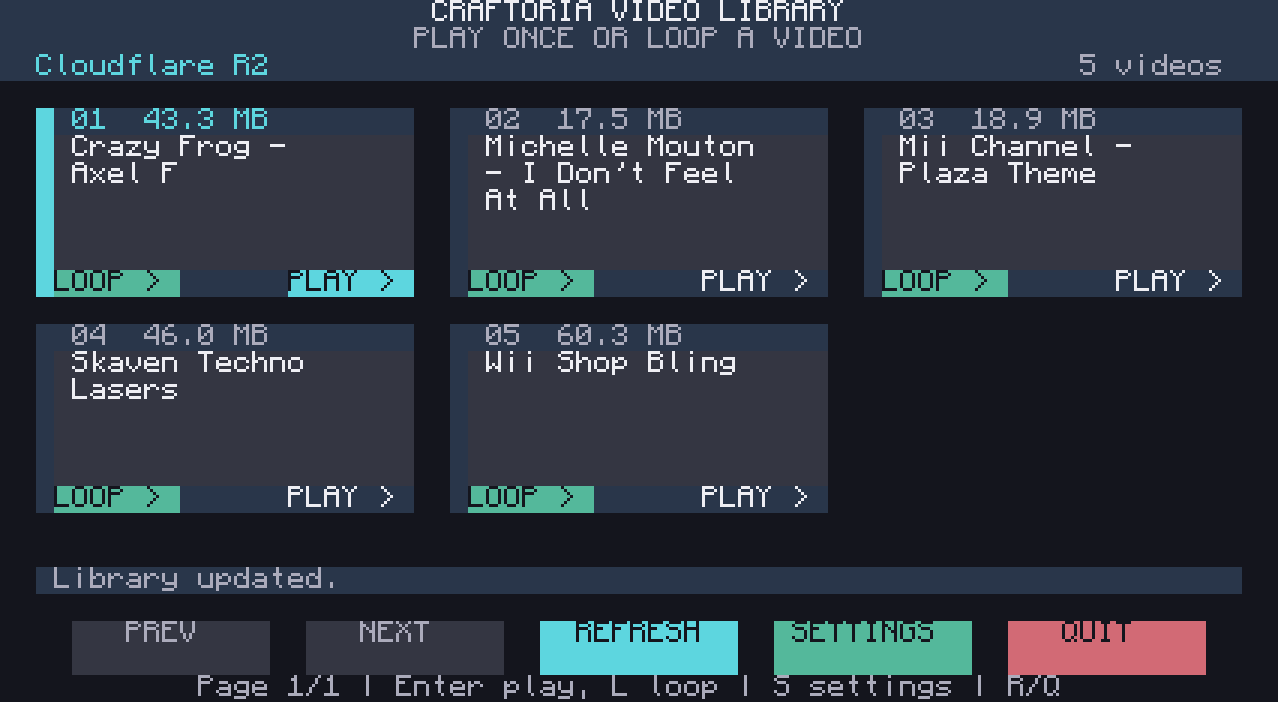
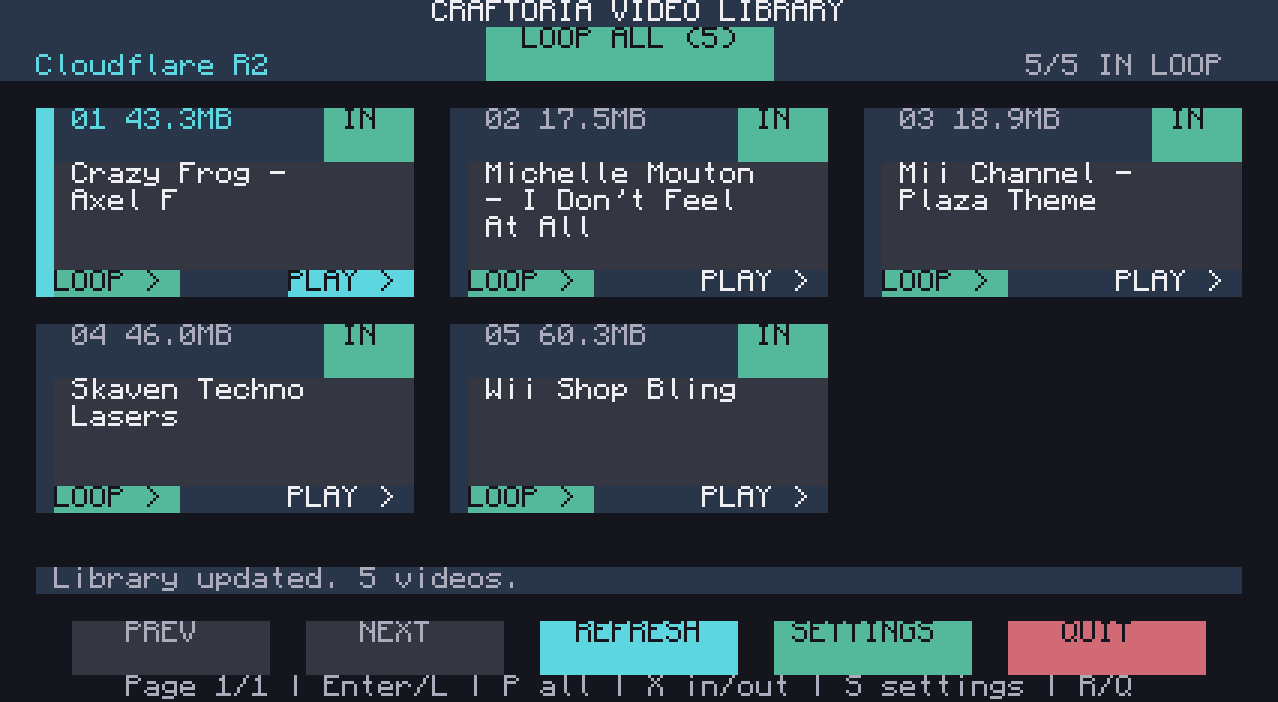
feat: loop library videos with saved exclusions

diff --git a/README.md b/README.md
@@ -7,25 +7,33 @@ A CC:Tweaked video player for a **7-wide x 4-high Advanced Monitor wall**, with 
 Stop the existing player with Ctrl+T. Download the updated script to a fresh filename and launch it directly:
 
 ```text
-wget https://raw.githubusercontent.com/Mavial/craftoria-video-player/main/video.lua video-settings.lua
-video-settings.lua
+wget https://raw.githubusercontent.com/Mavial/craftoria-video-player/main/video.lua video-library.lua
+video-library.lua
 ```
 
-Choose an unused filename if `video-settings.lua` already exists. The player discovers directly attached and wired-network Advanced Monitors and chooses the largest wall that fits the current 143x52-character recordings. It uses text scale **1.0 for the menu** when the display has enough room, and switches to **0.5 for playback** to preserve the recording's full resolution. Smaller screens use a compact menu at 0.5, with a clear size error if a recording does not fit. With no Advanced Monitor connected, the menu stays on the computer for keyboard use. The R2 catalogue URL is already configured.
+Choose an unused filename if `video-library.lua` already exists. The player discovers directly attached and wired-network Advanced Monitors and chooses the largest wall that fits the current 143x52-character recordings. It uses text scale **1.0 for the menu** when the display has enough room, and switches to **0.5 for playback** to preserve the recording's full resolution. Smaller screens use a compact menu at 0.5, with a clear size error if a recording does not fit. With no Advanced Monitor connected, the menu stays on the computer for keyboard use. The R2 catalogue URL is already configured.
 
-Use **Settings > Display** to choose a particular wall, or keep automatic selection. The older `set video.monitor monitor_5` setting still works; `set video.monitor nil` enables automatic selection. A disconnected saved selection falls back to automatic discovery and shows a warning. The old `monitor MONITOR_NAME video-settings.lua` command still works and initially keeps its explicitly chosen monitor; changing the display in Settings can switch it during that session. Quit, errors and Ctrl+T restore the previous terminal. Touches on other monitors and mouse clicks in the computer GUI do not control an automatically selected wall.
+Use **Settings > Display** to choose a particular wall, or keep automatic selection. The older `set video.monitor monitor_5` setting still works; `set video.monitor nil` enables automatic selection. A disconnected saved selection falls back to automatic discovery and shows a warning. The old `monitor MONITOR_NAME video-library.lua` command still works and initially keeps its explicitly chosen monitor; changing the display in Settings can switch it during that session. Quit, errors and Ctrl+T restore the previous terminal. Touches on other monitors and mouse clicks in the computer GUI do not control an automatically selected wall.
 
 To run at computer boot, copy the player to an unused startup filename:
 
 ```text
-copy video-settings.lua startup.lua
+copy video-library.lua startup.lua
 ```
 
-If this computer already has a startup script, use `shell.run("video-settings.lua")` in that script instead. If you previously copied the whole old player into `startup.lua`, replace that player copy with the updated version. The **When player starts** preference controls what the player does after launch; a startup script is still needed to launch it automatically at computer boot.
+If this computer already has a startup script, use `shell.run("video-library.lua")` in that script instead. If you previously copied the whole old player into `startup.lua`, replace that player copy with the updated version. The **When player starts** preference controls what the player does after launch; a startup script is still needed to launch it automatically at computer boot.
 
 Tap **PLAY** or a card's header/title to play once. Tap its green **LOOP** button to repeat that recording until stopped. The header shows the file size, and the cyan accent marks the selected card. The SCADA-inspired menu uses dark panels, with **six cards per page in a 3x2 grid on the 7x4 wall**. Wider displays fit four columns (eight cards at the same height), and a standard computer uses two columns. Long titles wrap within each card. Previous, Next, Refresh, Settings and Quit are compact buttons, two character rows tall and at most eleven columns wide. Page buttons are disabled when there is no previous/next page; spaces between cards and empty cells do not start playback. The layout adapts to smaller screens and monitor resizing.
 
 Use arrow keys to move through the grid, **Enter** to play once, or **L** to loop the selected video. Page Up/Page Down or the mouse wheel changes pages, R refreshes, S opens Settings, and Q quits. Touch during playback or press Backspace to stop either mode and return to the menu. Touch-to-stop can be disabled in Settings; Backspace always works. Once-only playback returns automatically when finished. The chosen menu scale and its palette are restored after playback.
+
+Tap **LOOP ALL (N)** in the header, or press **P**, to repeat the included library. Every card has an **IN / OUT** button in its top-right corner; tap it or press **X** for the selected card to change inclusion. These choices save immediately by video URL and survive reboots, title changes and player updates. **OUT** only excludes that video from the library loop: its individual PLAY and LOOP buttons still work. With every video OUT, LOOP ALL is disabled.
+
+The library plays included videos alphabetically by default, or in a fresh shuffled order each pass when **Settings > Playback > Playlist Order** is set to Shuffle. It finishes each recording's audio before advancing, then repeats the queue. The catalogue refreshes after each complete pass: new URLs default to IN, removed videos disappear, and a failed refresh keeps the previous list. Unavailable recordings are skipped; if none can play, the player returns to the menu. Downloads can introduce a pause between recordings. Backspace stops throughout playback, downloads and catalogue refresh; the loading screen's **BACK TO LIBRARY** button works even with touch-to-stop disabled.
+
+![Library loop with a recording excluded](previews/menu-excluded.png)
+
+[Library-loop loading screen](previews/playlist-loading.png). `playlist-verification.json` records eleven scenario groups using the installed ROM scheduler and decoder with simulated hardware and HTTP: badge hit targets, saved exclusions, queue order, full audio across clips, catalogue changes, error recovery, stopping, startup, settings, layout bounds and cleanup. These checks are simulations; the new playlist mode still needs an in-world check.
 
 Loops restart both picture and audio from the beginning with fresh decoder state. Each repeat downloads the recording again, so there can be a loading pause between passes. Touch/Backspace also stops while reloading or draining the last audio buffer. A failed download or invalid recording ends the loop and shows the error in the menu.
 
@@ -35,7 +43,7 @@ This preview renders the actual Lua menu's character cells with the installed CC
 
 The menu lists the `.32vid` objects under `videos/` in the dedicated `craftoria-video-player` R2 bucket. A Cloudflare Worker builds the catalogue dynamically, follows R2 pagination, and streams recordings from the bucket. Upload or delete a converted recording in that prefix, then click Refresh to update the menu. Each card includes the file size. See [R2 deployment and upload instructions](r2/README.md).
 
-HTTP access must allow `craftoria-video-player.raftoria.workers.dev`. The list loads on launch and on explicit refresh, with optional automatic refresh while in the library; playback uses the current session's list. A failed refresh keeps the previous list and displays the error. Video files are downloaded over HTTP and are not saved to the computer disk. The player retains its GitHub source adapter for migration and continues to accept direct file/URL arguments.
+HTTP access must allow `craftoria-video-player.raftoria.workers.dev`. The list loads on launch and on explicit refresh, with optional automatic refresh while in the library. Library looping refreshes between full passes; individual playback uses the current session's list. A failed refresh keeps the previous list and displays the error. Video files are downloaded over HTTP and are not saved to the computer disk. The player retains its GitHub source adapter for migration and continues to accept direct file/URL arguments.
 
 ## Settings
 
@@ -43,12 +51,14 @@ Tap **SETTINGS** beside Refresh, or press **S**. Four tabs provide:
 
 - **Audio:** volume from 0 to 3 in 0.25 steps, mute, automatic first-speaker output, one named speaker, or all connected speakers. Rescan updates the device list; Test plays a short tone using the draft choices. Each audio output has its own decoder and buffer waits so a busy or disconnected output does not block the others. Distributed speakers need wired modems and Networking Cable connected to the computer; volume alone does not create unlimited range.
 - **Display:** automatic or named Advanced Monitor, automatic or 0.5/1.0/1.5 menu text scale, and automatic or 2/3/4 grid columns. The picker offers fitting choices and the applied layout falls back safely if the screen changes. Playback remains at 0.5 to match the recording resolution.
-- **Playback:** enable/disable touch-to-stop and choose Show Library or Loop Last Video on launch. The last video is remembered by URL, so new catalogue entries cannot change its identity. A deleted or unavailable video returns to the menu.
+- **Playback:** enable/disable touch-to-stop; choose Show Library, Loop Last Video or Loop Library on launch; and select Alphabetical or Shuffle playlist order. Loop Library respects saved IN/OUT choices. The last video is remembered by URL, so new catalogue entries cannot change its identity. A deleted or unavailable last video returns to the menu.
 - **Library:** manual refresh or automatic refresh every 5, 15 or 60 minutes, and an advanced catalogue URL editor on the computer keyboard. A new source must return a valid catalogue before it can be saved. The displayed 64 MiB download limit remains a server setting; conversion quality remains in the uploader.
 
 Touch a choice to cycle it. On the keyboard, Tab changes sections, Up/Down selects a row, Left/Right adjusts it, and Enter activates it. **S saves**, while Esc, Backspace or Q cancels. Tiny screens paginate rows with the header arrows or Page Up/Page Down.
 
 **Save & Back** applies preferences and writes them to CraftOS settings so they survive reboot and player updates. **Cancel** discards draft changes. **Defaults** stages the original preferences and requires Save to apply. Mute suppresses audio while preserving the volume preference. Changing a monitor or menu scale redraws the library; changing volume affects the next playback. Automatic refresh pauses during playback and Settings and is rearmed on return.
+
+IN/OUT choices belong to the main menu and save immediately; Settings Cancel and Defaults do not change them. Defaults restores alphabetical order and Show Library startup when saved.
 
 ![Audio settings on a 7x4 monitor wall](previews/settings-audio.png)
 
@@ -58,10 +68,10 @@ The player prepares the compressed recording in RAM before starting playback and
 
 ## Play Wii Shop Bling
 
-Use the updated `video-settings.lua`; monitor discovery and scale setup are automatic:
+Use the updated `video-library.lua`; monitor discovery and scale setup are automatic:
 
 ```text
-video-settings.lua https://craftoria-video-player.raftoria.workers.dev/videos/wii-shop-bling.32vid
+video-library.lua https://craftoria-video-player.raftoria.workers.dev/videos/wii-shop-bling.32vid
 ```
 
 Hold Ctrl+T in the computer GUI to stop the previous recording before entering the new command. The new recording starts at the beginning; the YouTube radio playlist is not included.
@@ -69,7 +79,7 @@ Hold Ctrl+T in the computer GUI to stop the previous recording before entering t
 For a new computer, download the player first:
 
 ```text
-wget https://raw.githubusercontent.com/Mavial/craftoria-video-player/main/video.lua video-settings.lua
+wget https://raw.githubusercontent.com/Mavial/craftoria-video-player/main/video.lua video-library.lua
 ```
 
 The ten-second test clip has been removed from R2 and GitHub; click Refresh in the menu to update the list.
